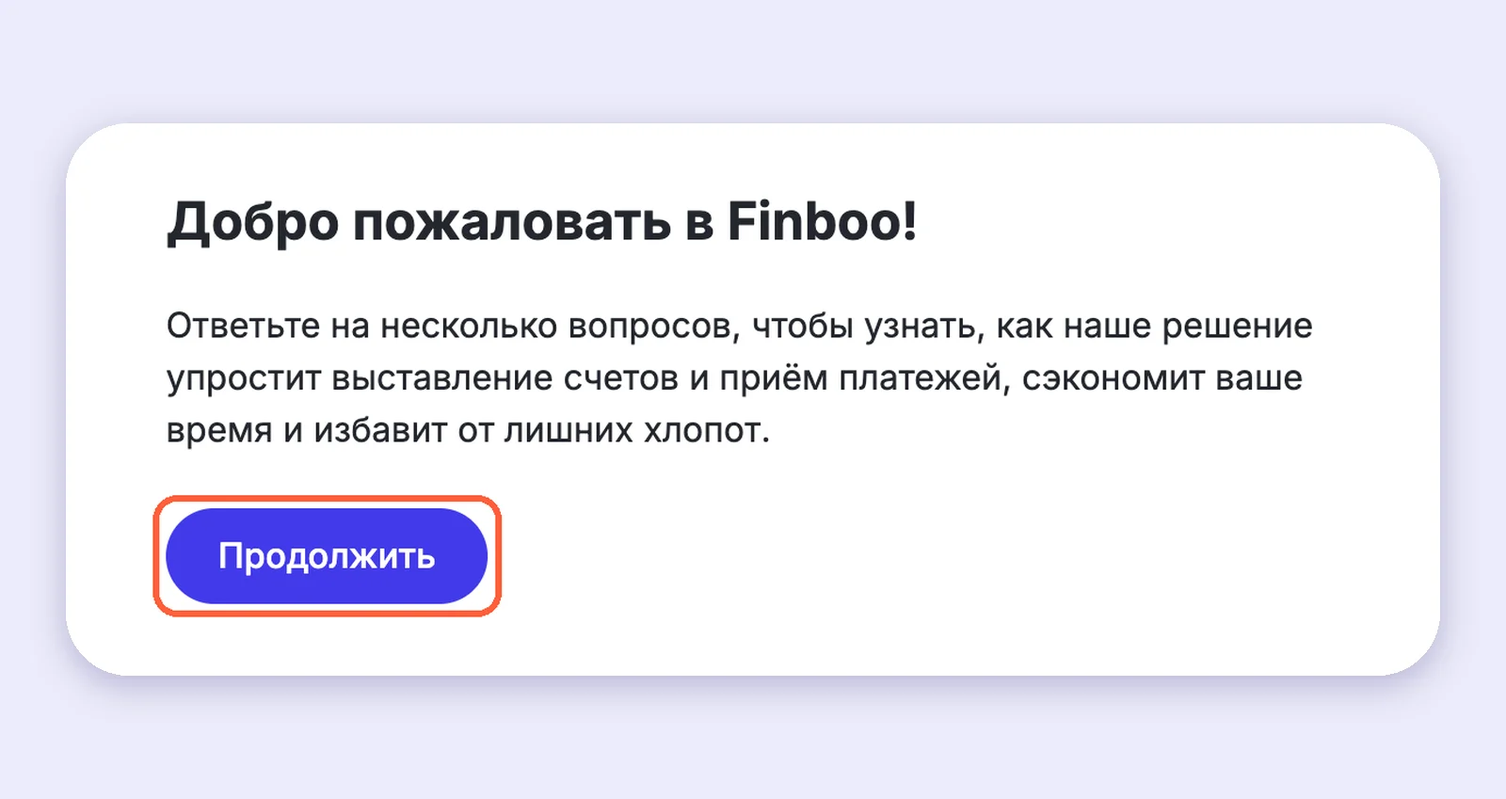
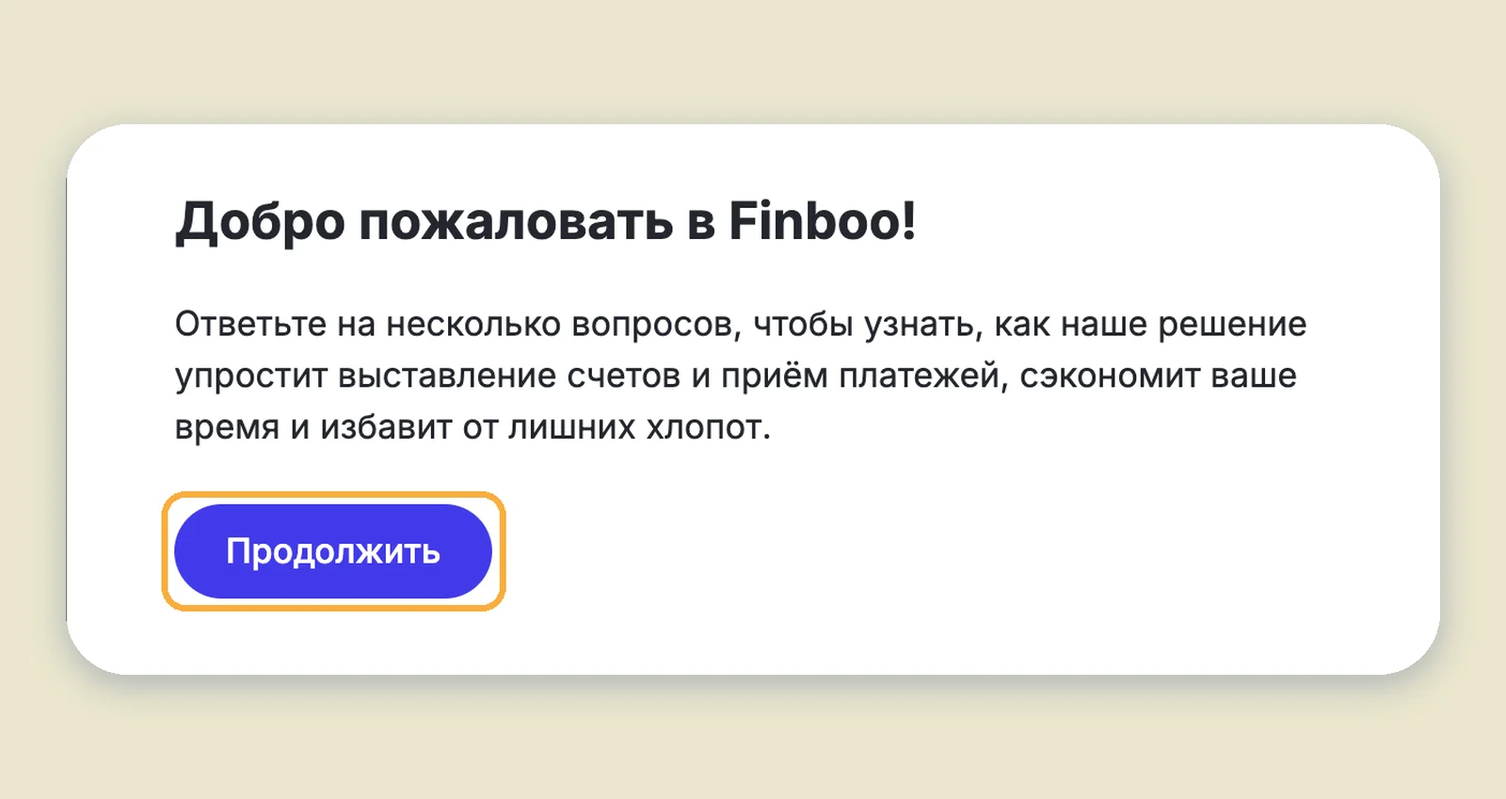
Restyle guide to Finboo brand guidelines
Brand palette (blue, graphite, gold, off-white), Carbona/Raleway type,
official logo, blue hero with gold accents, brand-colored screenshot
highlights and frames.

Claude-Session: https://claude.ai/code/session_013xNC6Gmp1cRtLRRdyBUS8a

diff --git a/index.html b/index.html
@@ -6,162 +6,165 @@
 <title>Старт в Finboo для фрилансера</title>
 <link rel="preconnect" href="https://fonts.googleapis.com">
 <link rel="preconnect" href="https://fonts.gstatic.com" crossorigin>
-<link rel="stylesheet" href="https://fonts.googleapis.com/css2?family=Manrope:wght@600;700;800&family=Onest:wght@400;500;600&display=swap">
+<link rel="stylesheet" href="https://fonts.googleapis.com/css2?family=Raleway:wght@300;400;500;600;700&display=swap">
 <style>
-/* Layout: sticky step rail on the left (desktop), one reading column with framed screenshots; collapses to a single column on phones */
+/* Finboo brand (Brand Guidelines, Nov 2025): blue #143CD2, graphite #323232, gold #BDA25A, off-white #F8F7F3.
+   Headings: Carbona (light/regular weights) with Raleway as the Cyrillic-capable fallback; body: Raleway.
+   Layout: logo + step rail on the left, one reading column; blue hero with gold accent words; single light brand look. */
 :root{
-  --bg:#F5F5FB; --surface:#FFFFFF; --ink:#16123F; --muted:#5E5B7E; --line:#DEDDEF;
-  --brand:#2337D1; --brand-ink:#FFFFFF; --soft:#ECEBFD; --mark:#F0552F;
-  --warn-bg:#FFF3E8; --warn-line:#F3B784; --warn-ink:#6B3510;
-  --ok:#2E9E61;
-  --wa:#5FC86E; --tg:#3E95D6; --toggle:#1C1B22;
-  --p1b:#FFE9D2; --p1f:#9A4B0A; --p2b:#E6E6EF; --p2f:#4A4870; --p3b:#D8F3E3; --p3f:#1D6E43;
-  --f-display:"Manrope","Segoe UI",system-ui,sans-serif;
-  --f-body:"Onest","Segoe UI",system-ui,-apple-system,sans-serif;
-  --radius:14px;
+  color-scheme:light;
+  --blue:#143CD2; --navy:#052F72; --ink:#323232; --gold:#BDA25A; --paper:#F8F7F3;
+  --muted:#6B6A69; --gray:#7F7E7E; --line:#E3DED2; --cream:#EBE6CE; --sand:#D8CEBF;
+  --sky:#3F9DD1; --amber:#F9AD3E; --surface:#FFFFFF; --tint:#E9EDFB;
+  --wa:#5FC86E; --tg:#3F9DD1; --toggle:#323232;
+  --f-display:"Carbona","Carbona Variable","Raleway",system-ui,sans-serif;
+  --f-body:"Raleway","Segoe UI",system-ui,-apple-system,sans-serif;
+  --radius:18px;
 }
-@media (prefers-color-scheme: dark){:root:not([data-theme="light"]){
-  --bg:#0F0E1D; --surface:#17162B; --ink:#ECEBFA; --muted:#A4A2C4; --line:#2C2B4A;
-  --brand:#8A93FF; --brand-ink:#0F0E1D; --soft:#22214A; --mark:#FF7A57;
-  --warn-bg:#2C1E12; --warn-line:#7A4A22; --warn-ink:#F6CFA8; --ok:#5BC98C; --p1b:#3A2612; --p1f:#FFC48F; --p2b:#2A2945; --p2f:#C9C7E6; --p3b:#163526; --p3f:#8BE0B0; color-scheme:dark}}
-:root[data-theme="dark"]{
-  --bg:#0F0E1D; --surface:#17162B; --ink:#ECEBFA; --muted:#A4A2C4; --line:#2C2B4A;
-  --brand:#8A93FF; --brand-ink:#0F0E1D; --soft:#22214A; --mark:#FF7A57;
-  --warn-bg:#2C1E12; --warn-line:#7A4A22; --warn-ink:#F6CFA8; --ok:#5BC98C; --p1b:#3A2612; --p1f:#FFC48F; --p2b:#2A2945; --p2f:#C9C7E6; --p3b:#163526; --p3f:#8BE0B0; color-scheme:dark}
-
 *{box-sizing:border-box}
-body{background:var(--bg);color:var(--ink);overflow-wrap:break-word;font:400 16px/1.6 var(--f-body);-webkit-font-smoothing:antialiased}
-.wrap{max-width:1180px;margin:0 auto;padding:48px 20px 96px;display:grid;grid-template-columns:240px minmax(0,1fr);gap:56px}
-h1,h2,h3{font-family:var(--f-display);text-wrap:balance;letter-spacing:-.01em;margin:0}
-h1{font-size:clamp(30px,4.4vw,46px);line-height:1.1;font-weight:800}
-h2{font-size:clamp(24px,3vw,32px);line-height:1.2;font-weight:800}
-h3{font-size:19px;line-height:1.3;font-weight:700}
+body{background:var(--paper);color:var(--ink);overflow-wrap:break-word;font:400 16.5px/1.65 var(--f-body);-webkit-font-smoothing:antialiased;font-variant-numeric:lining-nums}
+.wrap{max-width:1200px;margin:0 auto;padding:44px 20px 110px;display:grid;grid-template-columns:230px minmax(0,1fr);gap:64px}
+h1,h2,h3{font-family:var(--f-display);text-wrap:balance;margin:0;color:var(--ink)}
+h1{font-size:clamp(34px,5vw,54px);line-height:1.08;font-weight:400;letter-spacing:-.02em}
+h2{font-size:clamp(26px,3.2vw,36px);line-height:1.15;font-weight:400;letter-spacing:-.015em}
+h3{font-size:19px;line-height:1.3;font-weight:600}
+h2 .soft{color:var(--gray)}
 p{margin:0}
-a{color:var(--brand)}
-b,strong{font-weight:600}
-.ui{font-weight:600;-webkit-box-decoration-break:clone;box-decoration-break:clone;background:var(--soft);padding:1px 7px;border-radius:6px;font-size:.94em}
+a{color:var(--blue);text-underline-offset:3px}
+b,strong{font-weight:700}
+.ui{font-weight:600;-webkit-box-decoration-break:clone;box-decoration-break:clone;background:var(--tint);color:var(--blue);padding:1px 8px;border-radius:999px;font-size:.92em}
 
 /* rail */
-.rail{position:sticky;top:calc(env(safe-area-inset-top,0px) + 24px);align-self:start;display:flex;flex-direction:column;gap:18px}
-.logo{font:800 26px/1 var(--f-display);color:var(--brand);letter-spacing:-.03em}
-.logo small{display:block;font:500 12px/1.4 var(--f-body);color:var(--muted);letter-spacing:.06em;text-transform:uppercase;margin-top:6px}
-.toc{list-style:none;margin:0;padding:0;display:flex;flex-direction:column;gap:2px;border-left:2px solid var(--line)}
-.toc a{display:flex;gap:10px;align-items:baseline;padding:7px 12px;margin-left:-2px;border-left:2px solid transparent;color:var(--muted);text-decoration:none;font-size:14.5px;line-height:1.35}
+.rail{position:sticky;top:calc(env(safe-area-inset-top,0px) + 28px);align-self:start;display:flex;flex-direction:column;gap:22px}
+.logo{display:flex;flex-direction:column;gap:10px}
+.logo svg{width:128px;height:auto;display:block}
+.logo small{font:600 11.5px/1.4 var(--f-body);color:var(--gray);letter-spacing:.12em;text-transform:uppercase}
+.toc{list-style:none;margin:0;padding:0;display:flex;flex-direction:column;gap:2px;border-left:1px solid var(--line)}
+.toc a{display:flex;gap:10px;align-items:baseline;padding:7px 12px;margin-left:-1px;border-left:2px solid transparent;color:var(--gray);text-decoration:none;font-size:14.5px;line-height:1.35;font-weight:500}
 .toc a:hover{color:var(--ink)}
-.toc a.on{color:var(--ink);border-left-color:var(--brand);font-weight:600}
-.toc .n{font:700 12px/1 var(--f-display);color:var(--brand);min-width:16px;font-variant-numeric:tabular-nums}
-.help{font-size:13.5px;color:var(--muted);background:var(--surface);border:1px solid var(--line);border-radius:var(--radius);padding:14px}
+.toc a.on{color:var(--blue);border-left-color:var(--blue);font-weight:700}
+.toc .n{font:600 12px/1 var(--f-body);color:var(--gold);min-width:14px;font-variant-numeric:tabular-nums}
+.help{font-size:13.5px;line-height:1.5;color:var(--ink);background:var(--cream);border-radius:14px;padding:14px 16px}
 
-main{min-width:0;display:flex;flex-direction:column;gap:88px}
-section{display:flex;flex-direction:column;gap:22px;scroll-margin-top:24px}
-.prose{max-width:66ch;display:flex;flex-direction:column;gap:14px;color:var(--ink)}
+main{min-width:0;display:flex;flex-direction:column;gap:96px}
+section{display:flex;flex-direction:column;gap:24px;scroll-margin-top:24px}
 .lead{font-size:19px;line-height:1.55;color:var(--muted);max-width:60ch}
-.eyebrow{font:600 12.5px/1 var(--f-body);letter-spacing:.09em;text-transform:uppercase;color:var(--brand)}
-.head{display:flex;flex-direction:column;gap:10px}
+.eyebrow{font:700 12px/1 var(--f-body);letter-spacing:.14em;text-transform:uppercase;color:var(--gold)}
+.head{display:flex;flex-direction:column;gap:12px}
 
 /* hero */
-.hero{display:flex;flex-direction:column;gap:22px}
-.needs{display:grid;grid-template-columns:repeat(auto-fit,minmax(200px,1fr));gap:12px;margin-top:6px}
-.need{background:var(--surface);border:1px solid var(--line);border-radius:12px;padding:14px 16px;font-size:14.5px;line-height:1.45}
-.need b{display:block;font-size:15px;margin-bottom:2px}
+.hero{display:flex;flex-direction:column;gap:18px}
+.hero-panel{background:var(--blue);color:#fff;border-radius:28px;padding:clamp(28px,5vw,56px);display:flex;flex-direction:column;gap:18px;position:relative;overflow:hidden}
+.hero-panel::after{content:"";position:absolute;right:-90px;bottom:-120px;width:360px;height:360px;border-radius:50%;border:56px solid rgba(255,255,255,.07);pointer-events:none}
+.hero-panel h1{color:#fff;max-width:16ch;position:relative}
+.hero-panel h1 em{font-style:normal;color:var(--gold)}
+.hero-panel .lead{color:rgba(255,255,255,.86);position:relative}
+.hero-panel .eyebrow{color:var(--gold)}
+.needs{display:grid;grid-template-columns:repeat(auto-fit,minmax(200px,1fr));gap:12px}
+.need{background:var(--surface);border-radius:16px;padding:16px 18px;font-size:14.5px;line-height:1.5;color:var(--muted)}
+.need b{display:block;font:600 16px/1.3 var(--f-display);color:var(--ink);margin-bottom:4px}
 .paths{display:grid;grid-template-columns:repeat(auto-fit,minmax(260px,1fr));gap:14px}
-.path{display:flex;flex-direction:column;gap:8px;padding:20px;border-radius:var(--radius);background:var(--surface);border:1px solid var(--line);text-decoration:none;color:var(--ink);transition:border-color .15s,transform .15s}
-.path:hover,.path:focus-visible{border-color:var(--brand);transform:translateY(-2px)}
-.path .t{font:700 18px/1.3 var(--f-display)}
-.path .d{color:var(--muted);font-size:14.5px;line-height:1.5}
-.path .go{color:var(--brand);font-weight:600;font-size:14.5px;margin-top:auto}
+.path{display:flex;flex-direction:column;gap:8px;padding:22px;border-radius:var(--radius);background:var(--surface);border:1px solid transparent;text-decoration:none;color:var(--ink);transition:border-color .15s,transform .15s}
+.path:hover,.path:focus-visible{border-color:var(--blue);transform:translateY(-2px)}
+.path .t{font:500 20px/1.25 var(--f-display)}
+.path .d{color:var(--muted);font-size:14.5px;line-height:1.55}
+.path .go{color:var(--blue);font-weight:700;font-size:14.5px;margin-top:auto}
 
 /* checklist meter */
-.meter{display:flex;gap:6px;align-items:center;font:600 13px/1 var(--f-body);color:var(--muted)}
-.meter i{display:block;width:26px;height:6px;border-radius:3px;background:var(--line)}
-.meter i.f{background:var(--ok)}
+.meter{display:flex;gap:6px;align-items:center;font:700 13px/1 var(--f-body);color:var(--gray)}
+.meter i{display:block;width:26px;height:6px;border-radius:3px;background:var(--sand)}
 
 /* steps */
-.steps{list-style:none;margin:0;padding:0;display:flex;flex-direction:column;gap:34px;counter-reset:s}
+.steps{list-style:none;margin:0;padding:0;display:flex;flex-direction:column;gap:36px;counter-reset:s}
 .step{counter-increment:s;min-width:0}
 .step>div{display:flex;flex-direction:column;gap:14px;min-width:0}
-.step>div>:first-child::before{content:counter(s);display:inline-flex;align-items:center;justify-content:center;width:28px;height:28px;border-radius:50%;background:var(--soft);color:var(--brand);font:800 14px/1 var(--f-display);margin-right:10px;vertical-align:1px;flex:none}
+.step>div>:first-child::before{content:counter(s);display:inline-flex;align-items:center;justify-content:center;width:28px;height:28px;border-radius:50%;background:var(--blue);color:#fff;font:700 13px/1 var(--f-body);margin-right:10px;vertical-align:1px;flex:none}
 .step p,.step ul{max-width:68ch}
 ul.fields{margin:0;padding-left:20px;display:flex;flex-direction:column;gap:4px}
-ul.fields li::marker{color:var(--brand)}
+ul.fields li::marker{color:var(--gold)}
 
 figure{margin:0;display:flex;flex-direction:column;gap:8px}
-.shot{display:block;border:1px solid var(--line);border-radius:12px;overflow:hidden;background:var(--surface);cursor:zoom-in;padding:0;width:100%;text-align:left}
+.shot{display:block;border:0;border-radius:16px;overflow:hidden;background:var(--surface);cursor:zoom-in;padding:0;width:100%;text-align:left;box-shadow:0 1px 0 var(--line),0 14px 40px -24px rgba(5,47,114,.35)}
 .shot img{display:block;width:100%;height:auto}
-figcaption{font-size:13.5px;color:var(--muted);line-height:1.45}
-figcaption .m{display:inline-block;width:12px;height:12px;border:2px solid var(--mark);border-radius:4px;vertical-align:-1px;margin-right:6px}
+figcaption{font-size:13.5px;color:var(--gray);line-height:1.45}
+figcaption .m{display:inline-block;width:12px;height:12px;border:2px solid var(--amber);border-radius:4px;vertical-align:-1px;margin-right:6px}
 
-.note,.warn{border-radius:12px;padding:14px 16px;font-size:15px;line-height:1.5;max-width:70ch;display:flex;flex-direction:column;gap:6px}
-.note{background:var(--soft);color:var(--ink)}
-.warn{background:var(--warn-bg);border:1px solid var(--warn-line);color:var(--warn-ink)}
-.note b,.warn b{font-weight:600}
+.note,.warn{border-radius:16px;padding:16px 18px;font-size:15px;line-height:1.55;max-width:72ch;display:flex;flex-direction:column;gap:6px}
+.note{background:var(--tint);color:var(--ink)}
+.warn{background:var(--cream);color:var(--ink);border-left:4px solid var(--gold)}
+.note b,.warn b{font-weight:700}
 .warn ul,.note ul{margin:0;padding-left:20px}
 
 /* fee calculator */
-.calc{background:var(--surface);border:1px solid var(--line);border-radius:var(--radius);padding:20px;display:flex;flex-direction:column;gap:16px;max-width:760px}
+.calc{background:var(--surface);border-radius:var(--radius);padding:22px;display:flex;flex-direction:column;gap:16px;max-width:760px}
 .calc-row{display:flex;flex-wrap:wrap;gap:12px 18px;align-items:end}
-.calc label{display:flex;flex-direction:column;gap:6px;font-size:13px;color:var(--muted)}
-.calc input[type=number]{font:600 18px/1 var(--f-body);color:var(--ink);background:var(--bg);border:1px solid var(--line);border-radius:10px;padding:10px 12px;width:160px}
+.calc label{display:flex;flex-direction:column;gap:6px;font-size:13px;color:var(--gray);font-weight:600}
+.calc input[type=number]{font:600 18px/1 var(--f-body);color:var(--ink);background:var(--paper);border:1px solid var(--line);border-radius:12px;padding:10px 12px;width:160px}
 .seg{display:flex;flex-wrap:wrap;gap:6px}
-.seg button{font:500 14px/1 var(--f-body);color:var(--ink);background:var(--bg);border:1px solid var(--line);border-radius:999px;padding:10px 14px;cursor:pointer}
-.seg button[aria-pressed=true]{background:var(--brand);color:var(--brand-ink);border-color:var(--brand)}
-.out{display:grid;grid-template-columns:repeat(auto-fit,minmax(140px,1fr));gap:10px}
-.out div{background:var(--bg);border-radius:10px;padding:12px 14px;display:flex;flex-direction:column;gap:4px}
-.out span{font-size:12.5px;color:var(--muted)}
-.out strong{font:700 20px/1.2 var(--f-display);font-variant-numeric:tabular-nums}
-.out .you strong{color:var(--brand)}
-.calc small{color:var(--muted);font-size:13px}
-:focus-visible{outline:3px solid var(--brand);outline-offset:2px;border-radius:6px}
+.seg button{font:600 14px/1 var(--f-body);color:var(--ink);background:var(--paper);border:1px solid var(--line);border-radius:999px;padding:11px 16px;cursor:pointer}
+.seg button[aria-pressed=true]{background:var(--blue);color:#fff;border-color:var(--blue)}
+.out{display:grid;grid-template-columns:repeat(auto-fit,minmax(150px,1fr));gap:10px}
+.out div{background:var(--paper);border-radius:12px;padding:12px 14px;display:flex;flex-direction:column;gap:4px}
+.out span{font-size:12.5px;color:var(--gray);font-weight:600}
+.out strong{font:500 22px/1.2 var(--f-display);font-variant-numeric:tabular-nums}
+.out .you{background:var(--blue)}
+.out .you span{color:rgba(255,255,255,.8)}
+.out .you strong{color:#fff}
+.calc small{color:var(--gray);font-size:13px}
+:focus-visible{outline:3px solid var(--gold);outline-offset:2px;border-radius:6px}
 
 /* statuses */
 .status{display:grid;grid-template-columns:repeat(auto-fit,minmax(200px,1fr));gap:12px}
-.status div{background:var(--surface);border:1px solid var(--line);border-radius:12px;padding:16px;display:flex;flex-direction:column;gap:8px;font-size:14.5px;line-height:1.5}
-.pill{align-self:flex-start;font:600 13px/1 var(--f-body);padding:6px 10px;border-radius:999px}
-.p1{background:var(--p1b);color:var(--p1f)}.p2{background:var(--p2b);color:var(--p2f)}.p3{background:var(--p3b);color:var(--p3f)}
+.status div{background:var(--surface);border-radius:16px;padding:18px;display:flex;flex-direction:column;gap:10px;font-size:14.5px;line-height:1.55;color:var(--muted)}
+.pill{align-self:flex-start;font:700 12.5px/1 var(--f-body);padding:7px 11px;border-radius:999px}
+.p1{background:#FDE9C8;color:#7A4D06}.p2{background:#DCEBF6;color:#1C5A80}.p3{background:var(--blue);color:#fff}
 
 /* faq */
-.faq{display:flex;flex-direction:column;border-top:1px solid var(--line);max-width:780px}
+.faq{display:flex;flex-direction:column;border-top:1px solid var(--line);max-width:800px}
 .faq details{border-bottom:1px solid var(--line)}
-.faq summary{cursor:pointer;list-style:none;padding:16px 36px 16px 0;font:600 16.5px/1.4 var(--f-body);position:relative}
+.faq summary{cursor:pointer;list-style:none;padding:18px 40px 18px 0;font:500 18px/1.4 var(--f-display);position:relative}
 .faq summary::-webkit-details-marker{display:none}
-.faq summary::after{content:"+";position:absolute;right:6px;top:12px;font:400 24px/1 var(--f-body);color:var(--brand)}
+.faq summary::after{content:"+";position:absolute;right:4px;top:12px;width:28px;height:28px;border-radius:50%;background:var(--tint);color:var(--blue);display:grid;place-items:center;font:500 20px/1 var(--f-body)}
 .faq details[open] summary::after{content:"–"}
-.faq details>div{padding:0 0 18px;color:var(--ink);display:flex;flex-direction:column;gap:10px;max-width:66ch}
+.faq details>div{padding:0 0 20px;color:var(--ink);display:flex;flex-direction:column;gap:10px;max-width:68ch}
 
-.done{background:var(--brand);color:var(--brand-ink);border-radius:20px;padding:26px 28px;display:flex;flex-direction:column;gap:12px}
-.done h3{font-size:22px;color:inherit}
-.done p{max-width:64ch;opacity:.92}
+.done{background:var(--navy);color:#fff;border-radius:24px;padding:28px 30px;display:flex;flex-direction:column;gap:12px}
+.done h3{font:400 clamp(22px,2.6vw,28px)/1.2 var(--f-display);color:#fff}
+.done h3 em{font-style:normal;color:var(--gold)}
+.done p{max-width:64ch;color:rgba(255,255,255,.88)}
 .done ol{margin:0;padding-left:20px;display:flex;flex-direction:column;gap:6px;max-width:64ch}
-.path .tag{align-self:flex-start;font:600 12px/1 var(--f-body);background:var(--soft);color:var(--brand);padding:6px 9px;border-radius:999px}
-.end a{color:inherit;font-weight:600}
+.done ol li::marker{color:var(--gold);font-weight:700}
+.end{background:var(--blue);color:#fff;border-radius:28px;padding:clamp(26px,4vw,40px);display:flex;flex-direction:column;gap:10px}
+.end h2{color:#fff}
+.end h2 em{font-style:normal;color:var(--gold)}
+.end p{color:rgba(255,255,255,.88);max-width:60ch}
+.end a{color:#fff;font-weight:700}
+
 .support{position:fixed;right:calc(20px + env(safe-area-inset-right,0px));bottom:calc(20px + env(safe-area-inset-bottom,0px));z-index:50;display:flex;flex-direction:column;align-items:flex-end;gap:12px}
 .support-links{display:flex;flex-direction:column;align-items:flex-end;gap:12px}
-.support-links a{min-width:176px;display:flex;align-items:center;gap:12px;padding:8px 22px 8px 8px;border-radius:999px;color:#fff;text-decoration:none;font:600 17px/1 var(--f-body);box-shadow:0 8px 24px rgba(20,18,60,.18)}
+.support-links a{min-width:176px;display:flex;align-items:center;gap:12px;padding:8px 22px 8px 8px;border-radius:999px;color:#fff;text-decoration:none;font:700 17px/1 var(--f-body);box-shadow:0 8px 24px rgba(5,47,114,.18)}
 .support-links a .ic{width:40px;height:40px;border-radius:50%;background:#fff;display:grid;place-items:center;flex:none}
 .support-links a .ic svg{width:22px;height:22px}
 .sl-wa{background:var(--wa)}.sl-wa .ic svg{fill:var(--wa)}
 .sl-tg{background:var(--tg)}.sl-tg .ic svg{fill:var(--tg)}
-.support-toggle{width:60px;height:60px;border-radius:50%;border:0;background:var(--toggle);color:#fff;display:grid;place-items:center;cursor:pointer;box-shadow:0 8px 24px rgba(20,18,60,.25)}
+.support-toggle{width:60px;height:60px;border-radius:50%;border:0;background:var(--toggle);color:#fff;display:grid;place-items:center;cursor:pointer;box-shadow:0 8px 24px rgba(5,47,114,.25)}
 .support-toggle svg{width:26px;height:26px;stroke:#fff;fill:none;stroke-width:2.2;stroke-linecap:round;stroke-linejoin:round}
 .support[data-open="false"] .support-links{display:none}
 .support .i-close{display:none}.support[data-open="true"] .i-close{display:block}.support[data-open="true"] .i-chat{display:none}
 @media (prefers-reduced-motion:no-preference){.support-links a{animation:pop .18s ease-out both}.support-links a:nth-child(2){animation-delay:.04s}}
 @keyframes pop{from{opacity:0;transform:translateY(8px)}to{opacity:1;transform:none}}
-.end{background:var(--brand);color:var(--brand-ink);border-radius:20px;padding:28px;display:flex;flex-direction:column;gap:8px}
-.end h2{color:inherit}
-.end p{opacity:.9;max-width:60ch}
 
 dialog{border:0;padding:0;background:transparent;max-width:min(1400px,96vw)}
-dialog::backdrop{background:rgba(10,9,30,.82)}
-dialog img{display:block;max-width:100%;max-height:90vh;border-radius:10px}
-dialog button{position:fixed;top:calc(env(safe-area-inset-top,0px) + 14px);right:16px;font:600 15px/1 var(--f-body);background:#fff;color:#16123F;border:0;border-radius:999px;padding:10px 16px;cursor:pointer}
+dialog::backdrop{background:rgba(5,47,114,.85)}
+dialog img{display:block;max-width:100%;max-height:90vh;border-radius:12px}
+dialog button{position:fixed;top:calc(env(safe-area-inset-top,0px) + 14px);right:16px;font:700 15px/1 var(--f-body);background:#fff;color:var(--ink);border:0;border-radius:999px;padding:10px 16px;cursor:pointer}
 
 @media (max-width:900px){
-  .wrap{grid-template-columns:minmax(0,1fr);gap:36px;padding-top:28px}
+  .wrap{grid-template-columns:minmax(0,1fr);gap:28px;padding-top:24px}
   .rail{position:static}
-  .toc{display:none}
-  .help{display:none}
-  main{gap:64px}
+  .toc,.help{display:none}
+  main{gap:72px}
+  .hero-panel{border-radius:22px}
 }
 @media (prefers-reduced-motion:reduce){*{transition:none!important;scroll-behavior:auto!important}}
 html{scroll-behavior:smooth}
@@ -169,9 +172,10 @@ html{scroll-behavior:smooth}
 </head>
 <body>
 
+
 <div class="wrap">
   <aside class="rail">
-    <div class="logo">finboo<small>Гайд для фрилансеров</small></div>
+    <div class="logo"><svg viewBox="262 255 1625 420" role="img" aria-label="Finboo" fill="#143CD2"><path d="M572.7,341.46c23.58,0,38.22-13.37,38.22-34.88s-15-34.32-38.22-34.32-38.23,13.47-38.23,34.32,14.65,34.88,38.23,34.88Z"/><rect x="540.61" y="383.67" width="60.85" height="273.07"/><path d="M454.63,265.07l-.68.05c-60.79,4.05-101.63,47.13-110.47,116.98-1.39,15.9-2.2,32.21-2.34,47.48-.71,53.04,0,227.72,0,227.72h63.08s.22-148.35,0-203.88c-.04-16.01-.81-30.17.46-64.28,5.09-45.82,28.79-69.47,66.69-73.2l1.14-.11-17.88-50.75Z"/><path d="M581.34,385.47s-87.49,90.98-316.47,33.48v50s211.29,56.54,335.68-39.54l-19.2-43.94Z"/><path d="M861.73,400.74c-14.21-14.6-35.14-22.64-58.93-22.64-33.7,0-64.05,16.44-92.69,50.23v-44.66h-60.85v273.65h60.85v-177.76c16.29-22.65,41.68-49.53,70.4-49.53,12.14,0,22.21,4.67,29.54,12.17,8.38,8.58,11.55,18.15,12.45,35.92v178.61h60.85v-190.81c-.69-30.32-6.54-49.68-21.63-65.19Z"/><path d="M1804.27,536.54c.18-2.37.34-4.75.44-7.2.12-2.91.19-5.86.19-8.85,0-61.32-24.23-99.56-57.6-120.78l-.33-.39c-22.27-14.08-48.81-21.22-78.89-21.22-.09,0-.18,0-.28,0s-.18,0-.28,0c-30.08,0-56.62,7.14-78.89,21.22l-.33.39c-33.36,21.21-57.58,59.43-57.6,120.7,0,.03,0,.05,0,.08,0,.07,0,.13,0,.2,0,2.91.07,5.79.18,8.64.1,2.5.26,4.93.44,7.34.02.24.03.5.05.74,7.23,92.1,73.69,125.48,136.15,125.48.09,0,.18,0,.28,0,.09,0,.18,0,.28,0,62.45,0,128.91-33.38,136.14-125.47.02-.29.04-.59.06-.88ZM1721.43,592.94c-13.35,15-31.89,22.95-53.64,23.02-21.75-.07-40.3-8.02-53.64-23.02-13.73-15.43-21.44-38.13-22.48-65.92-.08-2.15-.13-4.32-.13-6.53,0-13.03,1.35-24.91,3.95-35.53.01-.06.03-.12.04-.18.3-1.23.64-2.44.97-3.64.13-.45.25-.91.39-1.35.23-.78.48-1.55.73-2.32.32-.97.63-1.94.97-2.88.08-.23.16-.45.24-.67,3.71-10.09,8.81-18.8,15.31-26.08,13.29-14.86,31.83-22.74,53.64-22.81,21.81.07,40.36,7.95,53.64,22.81,6.5,7.27,11.61,15.99,15.31,26.08.08.22.16.44.24.67.34.95.66,1.92.97,2.89.25.76.49,1.53.72,2.31.14.45.26.91.39,1.37.34,1.2.67,2.4.97,3.63.02.06.03.13.05.19,2.6,10.62,3.95,22.5,3.95,35.52,0,2.22-.05,4.4-.13,6.56-1.04,27.77-8.75,50.46-22.48,65.89Z"/><path d="M1500.58,536.54c.18-2.37.34-4.75.44-7.2.12-2.91.19-5.86.19-8.85,0-61.32-24.23-99.56-57.6-120.78l-.33-.39c-22.27-14.08-48.81-21.22-78.89-21.22-.09,0-.18,0-.28,0s-.18,0-.28,0c-30.08,0-56.62,7.14-78.89,21.22l-.33.39c-33.36,21.21-57.58,59.43-57.6,120.7,0,.03,0,.05,0,.08,0,.07,0,.13,0,.2,0,2.91.07,5.79.18,8.64.1,2.5.26,4.93.44,7.34.02.24.03.5.05.74,7.23,92.1,73.69,125.48,136.15,125.48.09,0,.18,0,.28,0,.09,0,.18,0,.28,0,62.45,0,128.91-33.38,136.14-125.47.02-.29.04-.59.06-.88ZM1417.74,592.94c-13.35,15-31.89,22.95-53.64,23.02-21.75-.07-40.3-8.02-53.64-23.02-13.73-15.43-21.44-38.13-22.48-65.92-.08-2.15-.13-4.32-.13-6.53,0-13.03,1.35-24.91,3.95-35.53.01-.06.03-.12.04-.18.3-1.23.64-2.44.97-3.64.13-.45.25-.91.39-1.35.23-.78.48-1.55.73-2.32.32-.97.63-1.94.97-2.88.08-.23.16-.45.24-.67,3.71-10.09,8.81-18.8,15.31-26.08,13.29-14.86,31.83-22.74,53.64-22.81,21.81.07,40.36,7.95,53.64,22.81,6.5,7.27,11.61,15.99,15.31,26.08.08.22.16.44.24.67.34.95.66,1.92.97,2.89.25.76.49,1.53.72,2.31.14.45.26.91.39,1.37.34,1.2.67,2.4.97,3.63.02.06.03.13.05.19,2.6,10.62,3.95,22.5,3.95,35.52,0,2.22-.05,4.4-.13,6.56-1.04,27.77-8.75,50.46-22.48,65.89Z"/><path d="M1199.23,520.49c0-.35-.02-.68-.02-1.02-.02-3.02-.08-6-.21-8.92,0-.09-.01-.18-.02-.27-2.45-55.63-24.84-92.46-55.98-112.61-20.07-12.99-43.62-19.57-70.01-19.57-35.74,0-63.35,12.68-82.1,37.69v-140.19h-60.85v381.72h60.85v-30.28c11.62,14.62,26.55,24.59,44.16,30.24.67.22,1.35.43,2.03.64.99.3,1.99.58,3,.85,1.32.36,2.65.68,4,1,.58.13,1.16.27,1.75.39,1.8.38,3.63.72,5.49,1.02.26.04.52.09.79.13,2.19.34,4.41.63,6.68.86,0,0,.02,0,.02,0,4.58.46,9.29.71,14.18.71.05,0,.11,0,.16,0,.05,0,.1,0,.15,0,64.16,0,122.5-40.69,125.77-133.85.03-.79.02-1.59.05-2.38.05-1.96.11-3.91.11-5.92,0-.04,0-.08,0-.12s0-.08,0-.12ZM1115.7,592.94c-13.47,15.06-32.29,23.03-54.41,23.03-34.6,0-60.25-19.41-70.4-53.27v-83.86c10.11-34.21,35.76-53.82,70.4-53.82,48.27,0,77.09,35.69,77.09,95.47,0,30.8-7.84,55.85-22.68,72.45Z"/><path d="M1877.81,628.8c0,16.24-12.31,28.63-28.63,28.63s-28.63-12.39-28.63-28.63,12.31-28.33,28.63-28.33,28.63,12.16,28.63,28.33ZM1871.95,628.8c0-13.35-9.42-22.84-22.77-22.84s-22.77,9.35-22.77,22.84,9.34,23.14,22.77,23.14,22.77-9.72,22.77-23.14ZM1863.05,643.86h-6.82c-.45-8.83-2.23-10.9-6.3-10.9h-6.3v10.9h-6.82v-30.04h14.61c6.9,0,10.98,3.49,10.98,9.27,0,3.86-1.85,6.6-5.12,8.08,3.71,1.78,5.49,5.86,5.78,12.68ZM1850.82,627.76c2.97,0,4.6-1.56,4.6-4.3s-1.56-4.08-4.23-4.08h-7.56v8.38h7.19Z"/></svg><small>Гайд для фрилансеров</small></div>
     <ol class="toc" id="toc">
       <li><a href="#start"><span class="n">→</span>Регистрация</a></li>
       <li><a href="#kyc"><span class="n">1</span>Профиль (KYC)</a></li>
@@ -187,9 +191,11 @@ html{scroll-behavior:smooth}
 
   <main>
     <header class="hero">
-      <span class="eyebrow">Начало работы</span>
-      <h1>Как начать работать через Finboo</h1>
-      <p class="lead">Пройдите пять шагов чеклиста «Начните» в личном кабинете, и вы сможете получать выплаты и выставлять счета клиентам по всему миру. Обычно это занимает 15–20 минут.</p>
+      <div class="hero-panel">
+        <span class="eyebrow">Начало работы</span>
+        <h1>Как начать работать <em>через Finboo</em></h1>
+        <p class="lead">Пройдите пять шагов чеклиста «Начните» в личном кабинете, и вы сможете получать выплаты и выставлять счета клиентам по всему миру. Обычно это занимает 15–20 минут.</p>
+      </div>
       <div class="needs">
         <div class="need"><b>Документ</b>Действующий паспорт или ID-карта. Нужен оригинал: копии и сканы не подойдут.</div>
         <div class="need"><b>Смартфон</b>Нужен для верификации личности, даже если вы регистрируетесь с компьютера.</div>
@@ -370,8 +376,8 @@ html{scroll-behavior:smooth}
         </div></li>
       </ol>
       <div class="done" id="invited-done">
-        <span class="eyebrow" style="color:inherit;opacity:.8">Вас пригласила компания?</span>
-        <h3>На этом всё: остаётся ждать выплату</h3>
+        <span class="eyebrow">Вас пригласила компания?</span>
+        <h3>На этом всё: <em>остаётся ждать выплату</em></h3>
         <p>Если вы работаете с компанией, которая прислала вам приглашение, выставлять счета не нужно. Компания сама формирует для вас выплату.</p>
         <ol>
           <li>Компания создаёт выплату в Finboo.</li>
@@ -486,7 +492,7 @@ html{scroll-behavior:smooth}
     </section>
 
     <div class="end">
-      <h2>Остались вопросы?</h2>
+      <h2>Остались <em>вопросы?</em></h2>
       <p>Напишите нам в <a href="https://wa.me/37122046801" target="_blank" rel="noopener">WhatsApp</a> или <a href="https://t.me/finboosupport" target="_blank" rel="noopener">Telegram</a>: кнопки связи есть в правом нижнем углу этой страницы. Мы поможем на любом шаге.</p>
     </div>
   </main>

diff --git a/README.md b/README.md
@@ -8,7 +8,7 @@
 - `img/` — скриншоты интерфейса (WebP, 1600×849).
 - `.nojekyll` — отключает обработку Jekyll на GitHub Pages.
 
-Сборка не нужна. Внешние зависимости: только шрифты Google Fonts (Manrope, Onest).
+Сборка не нужна. Шрифты: Raleway из Google Fonts. Для заголовков указан фирменный Carbona: если на основном сайте он подключён через @font-face, добавьте то же подключение в <head>, иначе заголовки отображаются в Raleway.
 
 ## Публикация на субдомене
 
